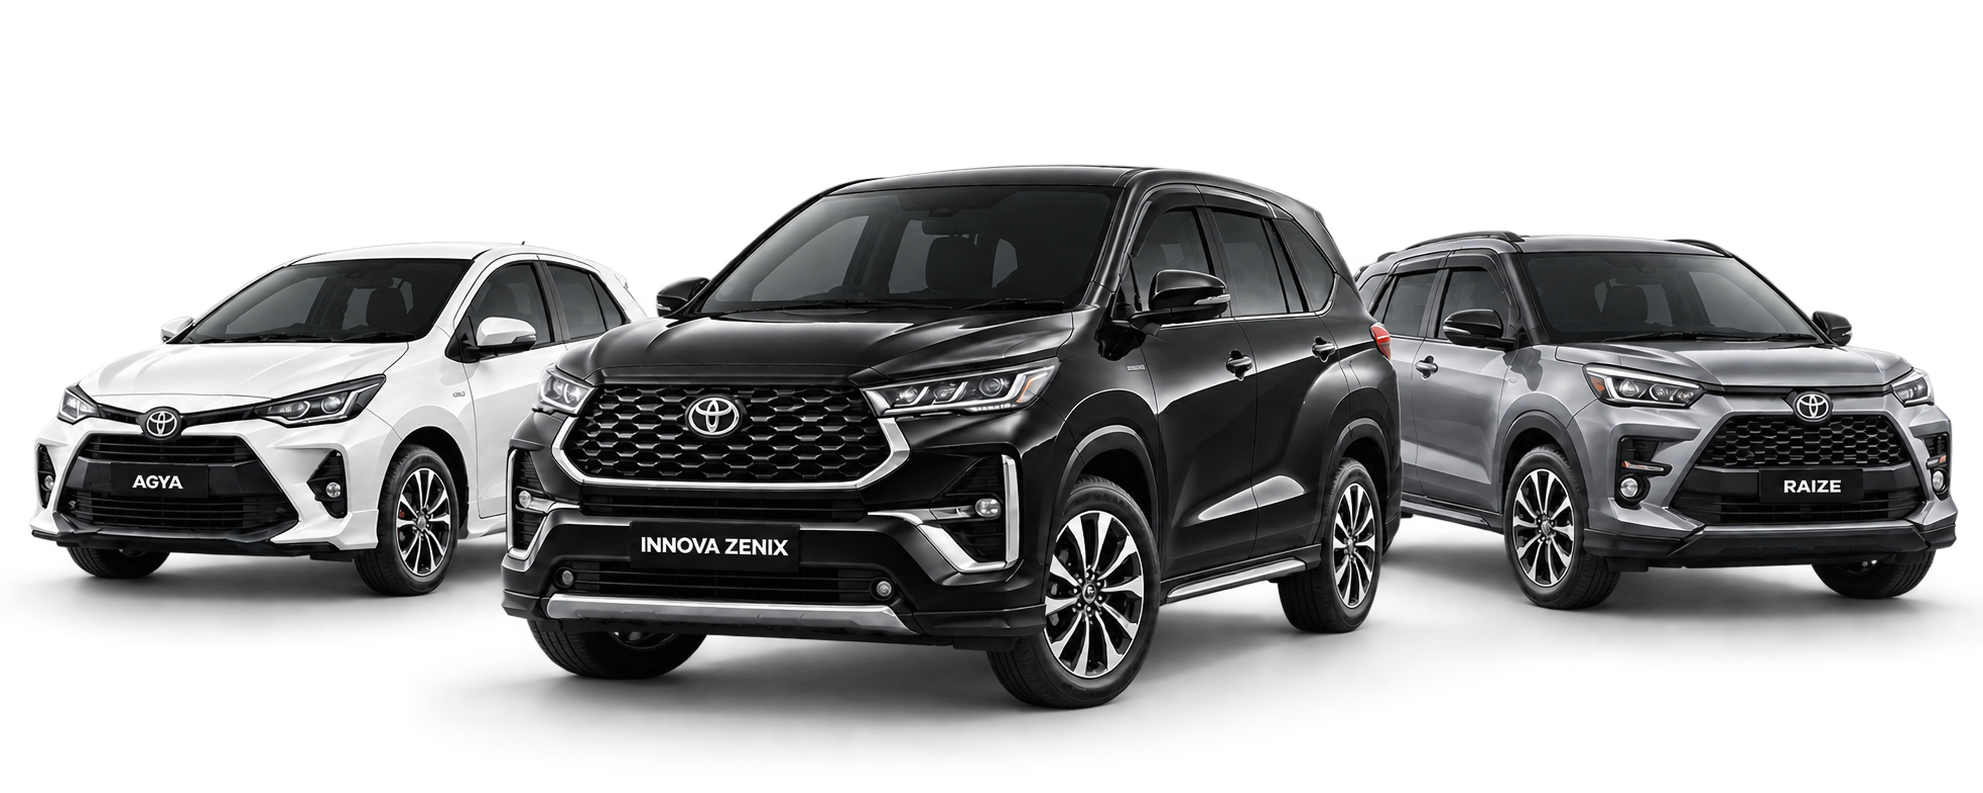
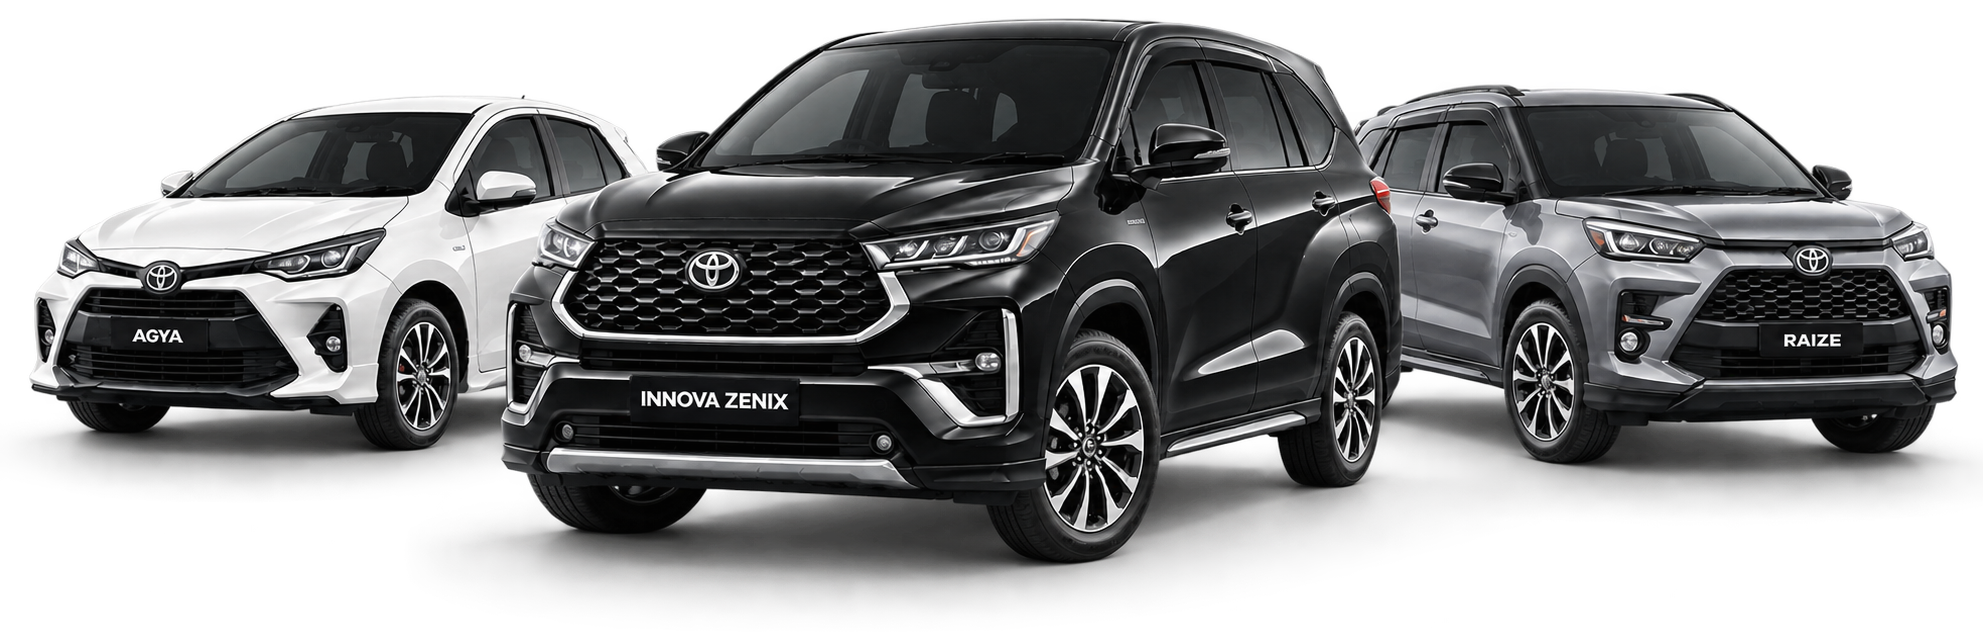
perbaiki halaman home

diff --git a/style.css b/style.css
@@ -507,3 +507,134 @@ html {scroll-padding-top:0}
 
 /* v11: status for models whose 2026 part photos are not provided */
 .parts-empty{padding:22px 20px;border-radius:16px;background:#edf3ee;color:#496452;line-height:1.6;font-size:14px}
+
+/* HOME COMPACT — Grid viewport-based: no forced 920px hero, no cropped cars.
+   Scoped to home page only; shared navbar, catalog and detail untouched. */
+body.home-page .hero-section{
+  height:calc(100svh - 106px);
+  min-height:535px;
+  max-height:970px;
+  overflow:hidden;
+}
+body.home-page .hero-wrap{
+  display:grid;
+  grid-template-rows:auto minmax(0,1fr);
+  height:100%;
+  min-height:0!important;
+  align-items:stretch;
+  overflow:visible;
+}
+body.home-page .hero-copy{
+  position:relative;
+  grid-row:1;
+  top:auto!important;
+  padding:clamp(16px,3.5vh,37px) 60px 3px!important;
+  margin:0 auto;
+  max-width:1100px;
+  width:100%;
+  z-index:5;
+}
+body.home-page .hero-copy .hero-kicker{
+  margin:0 auto clamp(5px,.9vh,10px);
+  font-size:clamp(10px,.82vw,14px);
+  letter-spacing:clamp(.18em,.35vw,.35em);
+  line-height:1.35;
+}
+body.home-page .hero-copy h1{
+  font-size:clamp(37px,min(5.2vw,7.6vh),78px);
+  line-height:.99;
+  letter-spacing:-.058em;
+}
+body.home-page .hero-copy .hero-description{
+  max-width:860px;
+  margin:clamp(7px,1.25vh,13px) auto 0;
+  font-size:clamp(12px,1.02vw,16px);
+  line-height:1.45;
+}
+body.home-page .hero-visual-v08{
+  grid-row:2;
+  position:relative;
+  top:auto;
+  bottom:auto!important;
+  left:auto;
+  right:auto;
+  width:100%;
+  height:100%;
+  min-height:0;
+  max-width:1500px;
+  margin:0 auto!important;
+  transform:none;
+  display:flex;
+  justify-content:center;
+  align-items:flex-end;
+  z-index:3;
+}
+body.home-page .hero-trio-combined{
+  width:100%;
+  height:100%;
+  max-height:100%;
+  object-fit:contain;
+  object-position:center bottom;
+  animation:none;
+}
+body.home-page .hero-progress{
+  top:46%;
+  gap:10px;
+}
+body.home-page .hero-bottom{
+  bottom:14px;
+  left:0;
+  right:0;
+}
+body.home-page .explore-arrow{width:58px;height:58px;font-size:26px}
+body.home-page .mouse-outline{width:27px;height:43px}
+body.home-page .scroll-indicator{gap:12px}
+body.home-page .explore-catalog{gap:12px}
+@media(max-width:1100px){
+  body.home-page .hero-section{height:calc(100svh - 106px);min-height:530px}
+  body.home-page .hero-copy{padding-left:42px!important;padding-right:42px!important}
+  body.home-page .hero-progress{top:47%;left:0}
+}
+@media(max-width:800px){
+  body.home-page .hero-section{height:calc(100svh - 77px);min-height:520px}
+  body.home-page .hero-copy{padding:clamp(19px,4vh,35px) 22px 5px!important}
+  body.home-page .hero-copy h1{font-size:clamp(37px,8.1vw,61px)}
+  body.home-page .hero-copy .hero-description{font-size:clamp(12px,1.6vw,14px);line-height:1.43}
+  body.home-page .hero-progress{top:51%;left:3px;gap:8px}
+  body.home-page .hero-bottom{bottom:9px}
+  body.home-page .explore-arrow{width:45px;height:45px;font-size:22px}
+}
+@media(max-width:520px){
+  body.home-page .hero-section{height:calc(100svh - 68px);min-height:495px}
+  body.home-page .hero-copy{padding:21px 10px 5px!important}
+  body.home-page .hero-copy .hero-kicker{font-size:9px;letter-spacing:.14em;margin-bottom:8px}
+  body.home-page .hero-copy h1{font-size:clamp(35px,9.8vw,48px);line-height:1.02}
+  body.home-page .hero-copy .hero-description{font-size:11px;max-width:345px;margin-top:10px;line-height:1.5}
+  body.home-page .hero-progress{top:50%;left:0;gap:4px}
+  body.home-page .progress-item{min-width:35px;min-height:27px}
+  body.home-page .hero-bottom{bottom:13px}
+  body.home-page .scroll-indicator{font-size:8px}
+  body.home-page .explore-catalog{font-size:8px}
+}
+@media(max-height:680px) and (min-width:801px){
+  body.home-page .hero-section{min-height:460px}
+  body.home-page .hero-copy{padding-top:14px!important}
+  body.home-page .hero-copy h1{font-size:clamp(37px,6.8vh,56px)}
+  body.home-page .hero-copy .hero-description{font-size:12px}
+  body.home-page .hero-progress{top:52%}
+  body.home-page .hero-bottom{bottom:5px}
+}
+/* Compact mobile portrait: keep all three cars within the first screen,
+   not enlarged beyond the viewport and not overlapping the bottom links. */
+@media(max-width:520px){
+  body.home-page .hero-section{
+    height:min(calc(100svh - 68px), 550px);
+    min-height:480px;
+    max-height:550px;
+  }
+  body.home-page .hero-visual-v08{
+    align-items:center;
+    padding-bottom:44px;
+  }
+  body.home-page .hero-progress{top:53%}
+}
